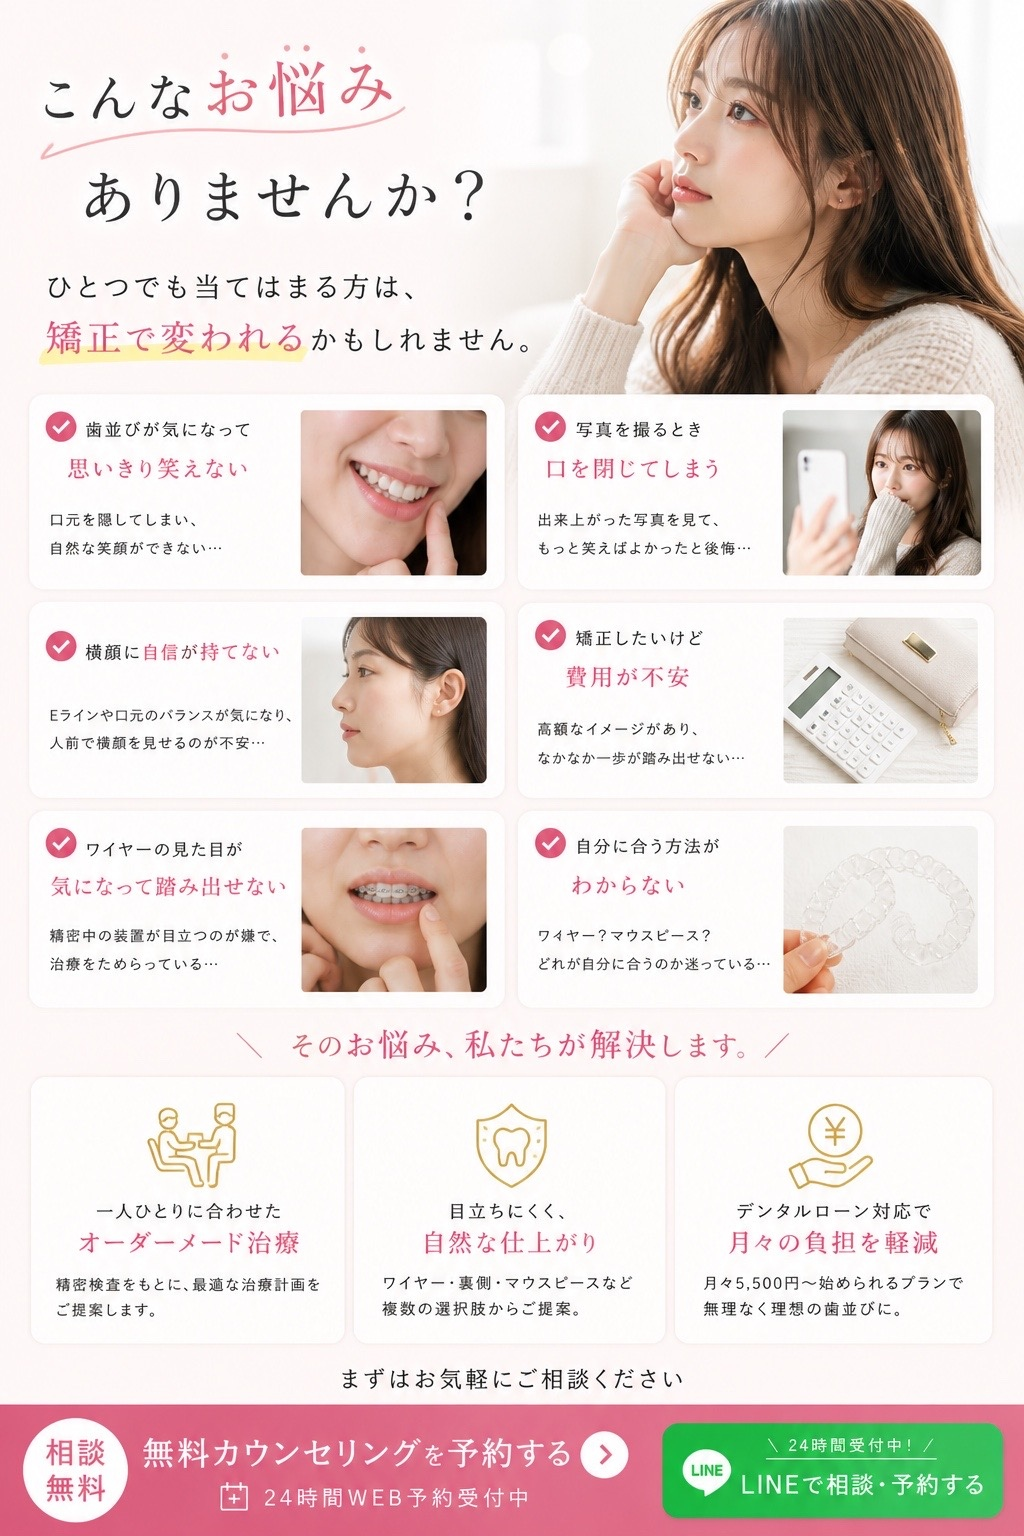
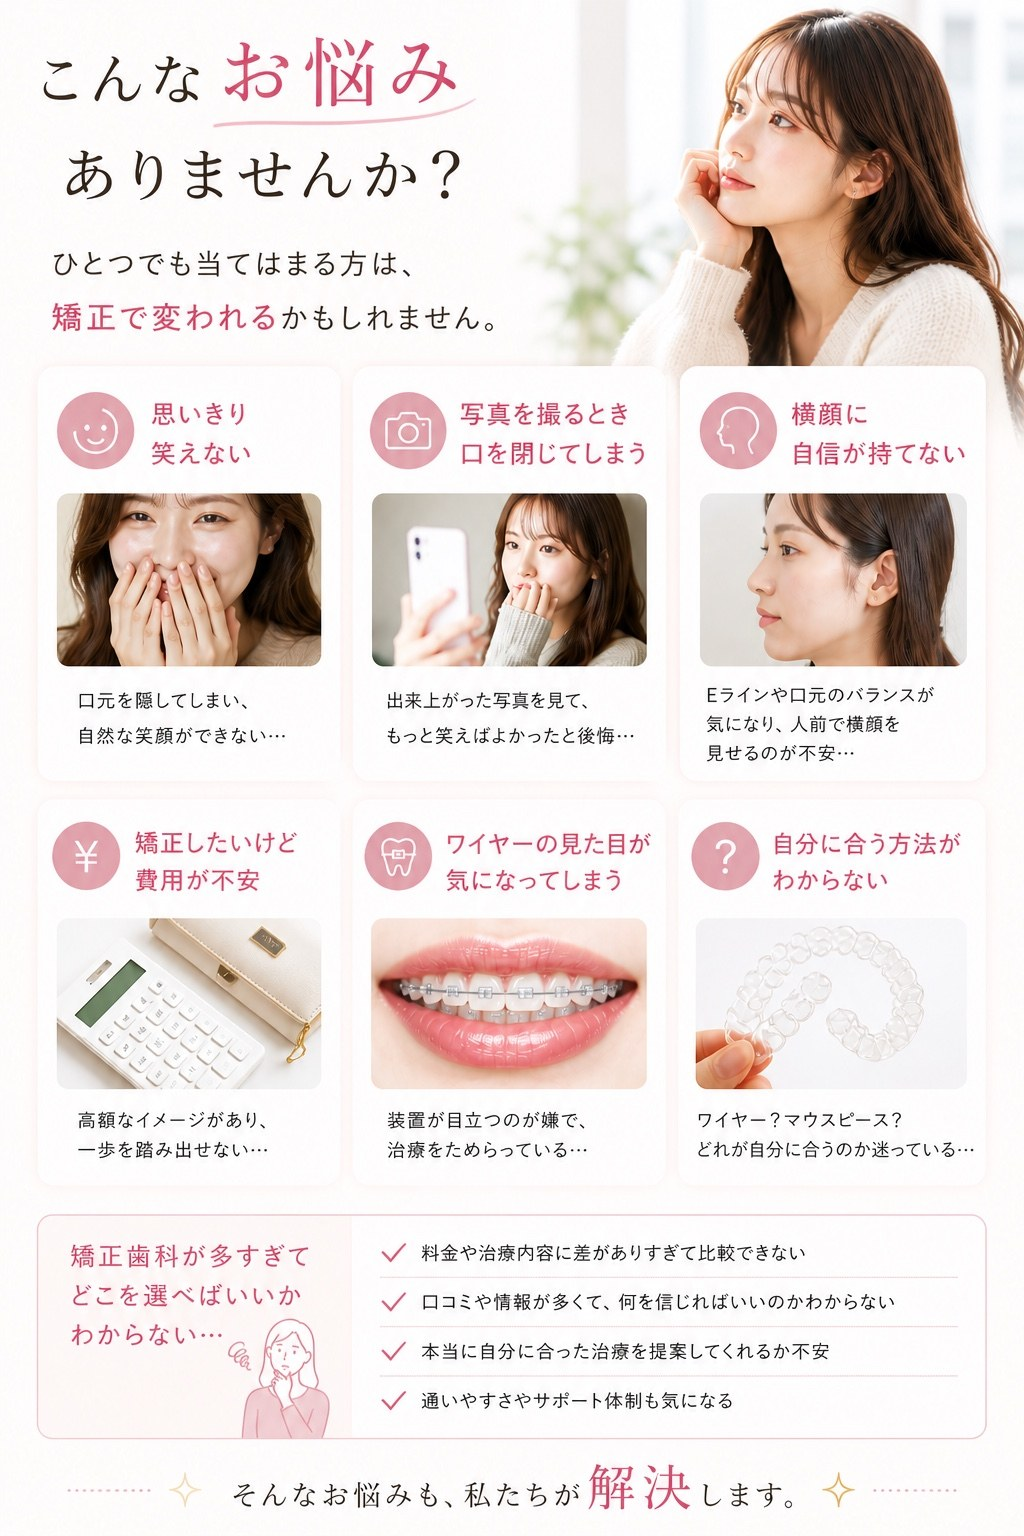
Add files via upload

diff --git a/index.html b/index.html
@@ -1,30 +1,50 @@
-<!DOCTYPE html>
+<!doctype html>
 <html lang="ja">
 <head>
-  <meta charset="UTF-8" />
-  <meta name="viewport" content="width=device-width, initial-scale=1.0, viewport-fit=cover" />
-  <title>名駅アール歯科・矯正歯科｜矯正無料カウンセリング</title>
-  <meta name="description" content="名古屋駅すぐ。名駅アール歯科・矯正歯科の矯正無料カウンセリング予約ページです。" />
-  <link rel="stylesheet" href="style.css" />
+  <meta charset="utf-8" />
+  <meta name="viewport" content="width=device-width, initial-scale=1, viewport-fit=cover" />
+  <title>名駅アール歯科・矯正歯科｜矯正スワイプLP</title>
+  <meta name="description" content="名古屋駅徒歩圏。矯正相談・無料カウンセリング予約はこちら。" />
+  <meta property="og:title" content="名駅アール歯科・矯正歯科｜矯正スワイプLP" />
+  <meta property="og:description" content="名古屋駅徒歩圏。矯正相談・無料カウンセリング予約はこちら。" />
+  <meta property="og:type" content="website" />
+  <meta property="og:image" content="images/01_firstview.jpg" />
+  <style>
+    :root{
+      --cta:#e64f7a;
+      --cta2:#c93c67;
+      --bg:#fff6f8;
+    }
+    *{box-sizing:border-box}
+    html,body{margin:0;padding:0;background:var(--bg);font-family:-apple-system,BlinkMacSystemFont,"Hiragino Sans","Yu Gothic",Meiryo,sans-serif;color:#222;}
+    body{overflow-x:hidden;}
+    .lp{width:100%;max-width:430px;margin:0 auto;background:#fff;box-shadow:0 0 30px rgba(0,0,0,.08);padding-bottom:calc(88px + env(safe-area-inset-bottom));}
+    .slide{position:relative;width:100%;line-height:0;background:#fff;scroll-margin-top:0;}
+    .slide a.image-link{display:block;width:100%;}
+    .slide img{display:block;width:100%;height:auto;margin:0;padding:0;border:0;}
+    .fixed-cta{position:fixed;left:50%;bottom:calc(10px + env(safe-area-inset-bottom));transform:translateX(-50%);width:min(400px,calc(100vw - 24px));z-index:20;text-decoration:none;background:linear-gradient(180deg,var(--cta),var(--cta2));color:#fff;border-radius:999px;box-shadow:0 10px 24px rgba(201,60,103,.35);padding:13px 18px;text-align:center;font-weight:800;letter-spacing:.03em;line-height:1.25;font-size:17px;}
+    .fixed-cta small{display:block;font-size:11px;font-weight:700;opacity:.95;margin-bottom:2px;}
+    .fixed-cta .arrow{position:absolute;right:18px;top:50%;transform:translateY(-50%);font-size:24px;}
+    .top-link{position:fixed;right:12px;bottom:calc(78px + env(safe-area-inset-bottom));z-index:19;background:rgba(255,255,255,.88);border:1px solid rgba(0,0,0,.08);border-radius:999px;color:#555;text-decoration:none;font-size:12px;padding:8px 10px;box-shadow:0 4px 16px rgba(0,0,0,.08);}
+    @media (min-width: 768px){.lp{max-width:430px}.fixed-cta{max-width:400px}}
+    @media (prefers-reduced-motion:no-preference){html{scroll-behavior:smooth}}
+  </style>
 </head>
 <body>
-  <main class="swipe" id="swipe">
-    <section class="slide"><img src="images/01_top.jpg" alt="名駅アール歯科・矯正歯科 スワイプLP 1枚目"></section>
-    <section class="slide"><img src="images/02_worries.jpg" alt="名駅アール歯科・矯正歯科 スワイプLP 2枚目"></section>
-    <section class="slide"><img src="images/03_before_after.jpg" alt="名駅アール歯科・矯正歯科 スワイプLP 3枚目"></section>
-    <section class="slide"><img src="images/04_select.jpg" alt="名駅アール歯科・矯正歯科 スワイプLP 4枚目"></section>
-    <section class="slide"><img src="images/05_wire.jpg" alt="名駅アール歯科・矯正歯科 スワイプLP 5枚目"></section>
-    <section class="slide"><img src="images/06_mouthpiece.jpg" alt="名駅アール歯科・矯正歯科 スワイプLP 6枚目"></section>
-    <section class="slide"><img src="images/07_lingual.jpg" alt="名駅アール歯科・矯正歯科 スワイプLP 7枚目"></section>
-    <section class="slide"><img src="images/08_voice.jpg" alt="名駅アール歯科・矯正歯科 スワイプLP 8枚目"></section>
-    <section class="slide"><img src="images/09_doctor_access.jpg" alt="名駅アール歯科・矯正歯科 スワイプLP 9枚目"></section>
+  <main class="lp" id="top" aria-label="矯正スワイプLP">
+    <section class="slide"><a class="image-link" href="https://reserve.shareconnect.co.jp/?r=don2bu&treatment_ids=1766627271947" aria-label="無料カウンセリング予約"><img src="images/01_firstview.jpg" alt="長年の歯並びコンプレックス、もう隠さなくていい。無料カウンセリング予約" loading="eager"></a></section>
+    <section class="slide"><a class="image-link" href="https://reserve.shareconnect.co.jp/?r=don2bu&treatment_ids=1766627271947" aria-label="無料カウンセリング予約"><img src="images/02_worries.jpg" alt="こんなお悩みありませんか。矯正で解決します" loading="lazy"></a></section>
+    <section class="slide"><a class="image-link" href="https://reserve.shareconnect.co.jp/?r=don2bu&treatment_ids=1766627271947" aria-label="無料カウンセリング予約"><img src="images/03_wire.jpg" alt="表側ワイヤー矯正の説明" loading="lazy"></a></section>
+    <section class="slide"><a class="image-link" href="https://reserve.shareconnect.co.jp/?r=don2bu&treatment_ids=1766627271947" aria-label="無料カウンセリング予約"><img src="images/04_mouthpiece.jpg" alt="マウスピース矯正の説明" loading="lazy"></a></section>
+    <section class="slide"><a class="image-link" href="https://reserve.shareconnect.co.jp/?r=don2bu&treatment_ids=1766627271947" aria-label="無料カウンセリング予約"><img src="images/05_lingual.jpg" alt="裏側矯正・ハーフリンガル矯正の説明" loading="lazy"></a></section>
+    <section class="slide"><a class="image-link" href="https://reserve.shareconnect.co.jp/?r=don2bu&treatment_ids=1766627271947" aria-label="無料カウンセリング予約"><img src="images/06_doctors.jpg" alt="ドクター紹介と矯正実績" loading="lazy"></a></section>
+    <section class="slide"><a class="image-link" href="https://reserve.shareconnect.co.jp/?r=don2bu&treatment_ids=1766627271947" aria-label="無料カウンセリング予約"><img src="images/07_access.jpg" alt="名古屋駅から徒歩で通える3つの医院。アクセスページ" loading="lazy"></a></section>
   </main>
-
-  <a class="fixed-cta" href="https://reserve.shareconnect.co.jp/?r=don2bu&treatment_ids=1766627271947" target="_blank" rel="noopener">
-    <span>相談無料</span>
+  <a class="top-link" href="#top">↑ TOP</a>
+  <a class="fixed-cta" href="https://reserve.shareconnect.co.jp/?r=don2bu&treatment_ids=1766627271947">
+    <small>相談無料・24時間WEB予約受付中</small>
     無料カウンセリング予約
+    <span class="arrow">›</span>
   </a>
-
-  <script src="script.js"></script>
 </body>
 </html>